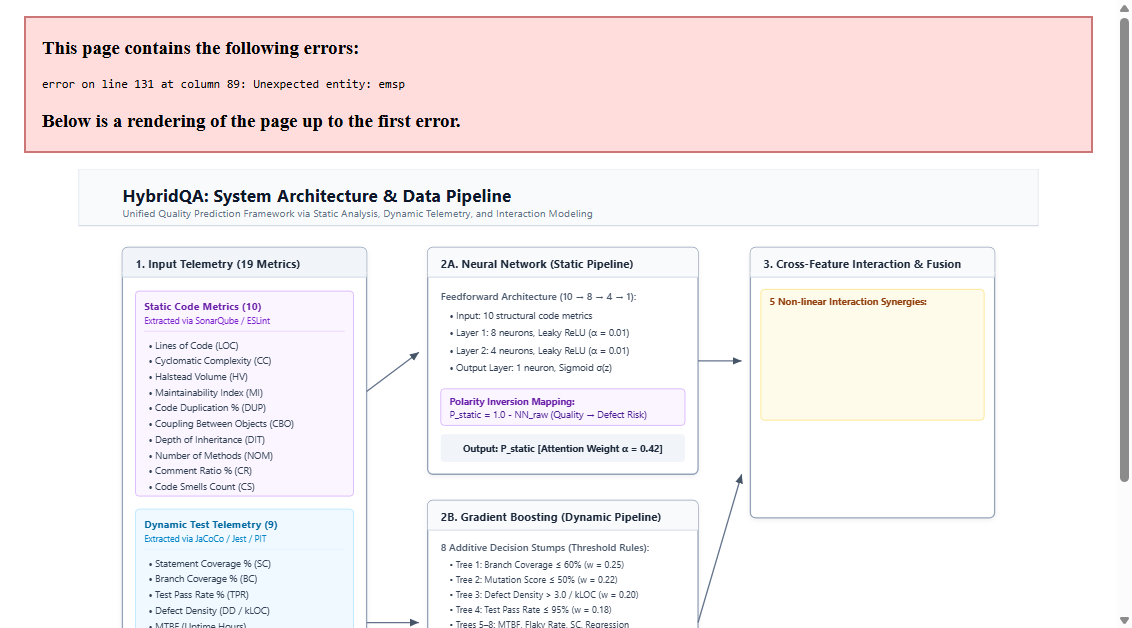
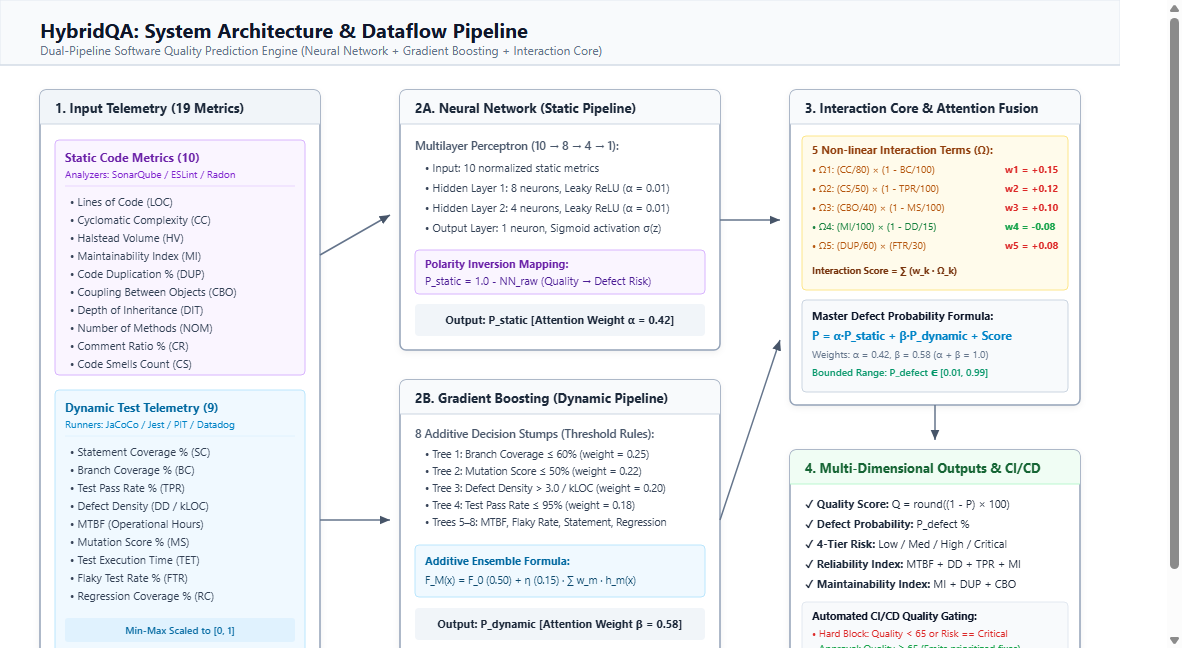
Fix architecture diagram rendering error, add Excel dataset, remove CSV

diff --git a/README.md b/README.md
@@ -43,8 +43,8 @@ This project introduces a **Hybrid AI Framework** that fuses **Static Code Struc
 ## 📁 Dataset (50 Multi-Domain Software Modules)
 
 The complete benchmark dataset of **50 real-world software modules** across 4 enterprise domains (E-Commerce, Healthcare EHR, FinTech, and Social Media) is freely accessible and downloadable:
-- 📊 **CSV Format (for Python/Pandas/R/Excel):** [`dataset.csv`](dataset.csv)
-- 🗂 **JSON Format (structured records):** [`dataset.json`](dataset.json)
+- 📊 **Excel Dataset (.xlsx):** [`dataset.xlsx`](dataset.xlsx) *(Easy spreadsheet viewing & analysis)*
+- 🗂 **JSON Dataset (.json):** [`dataset.json`](dataset.json) *(Structured records with 19 metrics & ground truth)*
 - 🔬 **Live Web Explorer:** Open `index.html#dataset` or visit [http://localhost:8080/#dataset](http://localhost:8080/#dataset)
 
 ---
